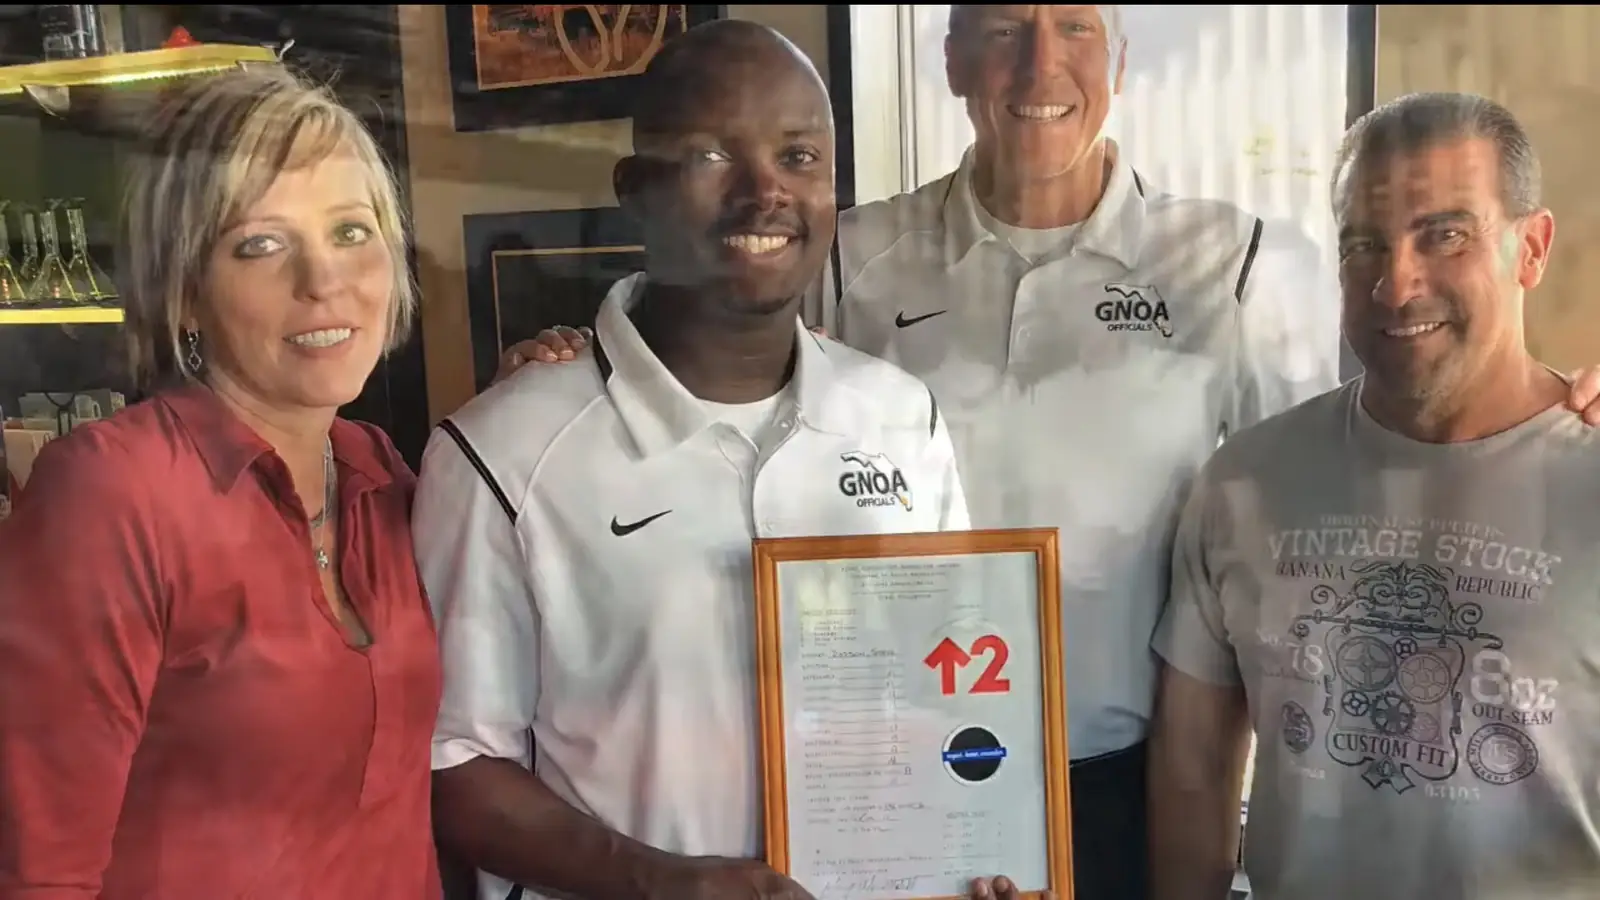
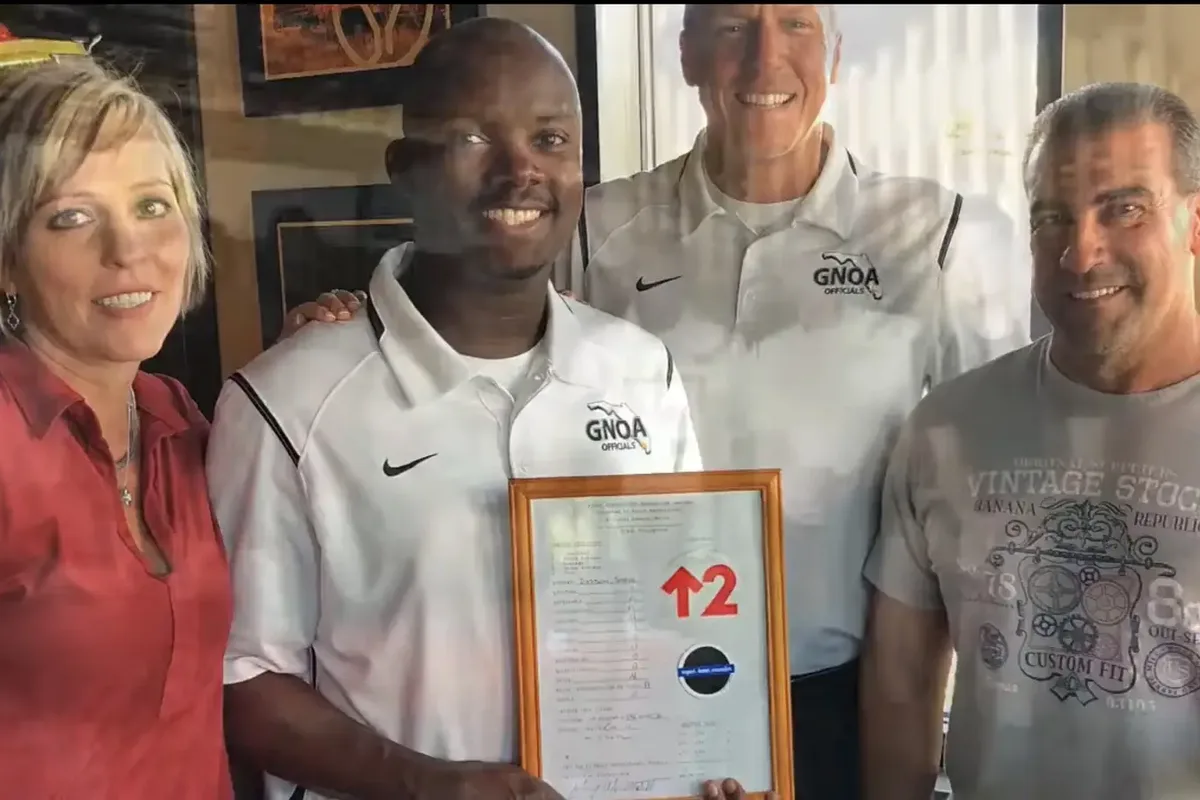
Recut baseball path photos to uniform 3:2 with face-safe focus
Claude-Session: https://claude.ai/code/session_013oN5QR7WMKUbHtxx7kQhA4

diff --git a/design-kit/DESIGN.md b/design-kit/DESIGN.md
@@ -1,4 +1,4 @@
-# GNOA Design Kit v1.5
+# GNOA Design Kit v1.6
 
 Source: GNOA homepage mockup v1.0 (Greater Naples Officials Association), plus the Football, Baseball, About, Wrestling, Soccer, Softball and Volleyball page handoff packs (v1.2 to v1.5 sections).
 Purpose: the Builder agent reads this file plus kit.css and assembles pages ONLY from the sections below. It does not invent new layouts, colors or fonts. Copy markup from preview.html.
@@ -54,7 +54,7 @@ Fields marked * are required.
 | steps | Icon-led process on a connector line (no number badges) | heading*, tagline (v1.5), 3 to 6 steps (icon*, title*, text*), button (centered below) | Only for a real sequence. Text max 15 words |
 | learn-cards | Photo cards with title and text under the photo (v1.2) | heading*, tagline, 3 to 6 cards (image*, title*, text* max 35 words) | One row on desktop (columns follow the card count), 3 across on tablet |
 | band | Navy panel, photo right | heading* and paragraph (max 45 words), or heading* and lines (3 to 8 short lines), or blocks (2 topics, each heading + paragraph max 60 words, split by a thin rule); button, image* | Never directly after another dark section |
-| path | Photo cards joined by arrows | heading*, tagline, intro (one line) or headAlign "left" with 1 to 4 paragraphs, 3 to 5 cards (label*, image*, text = caption under the photo), button (centered below) | Only for a progression. Labels max 4 words, captions max 14 words |
+| path | Photo cards joined by arrows | heading*, tagline, intro (one line) or headAlign "left" with 1 to 4 paragraphs, 3 to 5 cards (label*, image*, image.position = optional CSS object-position focus such as "center top", text = caption under the photo), button (centered below) | Only for a progression. Labels max 4 words, captions max 14 words |
 | testimonials | Quote cards with headshot | heading*, 1 to 3 quotes (photo*, quote*, name*, role*) | Real, approved quotes only. SAMPLE tag until GNOA approves |
 | faq | Two-column accordion | heading*, 3 to 10 questions with answers* | Answers from GNOA only, never invented |
 | info-faq | Info panel (photo, text, callout) beside a one-column FAQ (v1.2) | info: heading*, image*, 1 to 3 paragraphs*, list (3 to 8 short checklist items, v1.4), after (1 to 2 paragraphs after the list, v1.4), callout (max 12 words); faq: heading*, 3 to 8 questions with answers* | One FAQ per page. Answers from GNOA only |
@@ -120,6 +120,8 @@ When GNOA sends real files, they use the same file names (see IMAGE-CHECKLIST.md
 | og-share.jpg (optional) | social share image, 1200 x 630 |
 | favicon.png (optional) | browser tab icon, 512 x 512 |
 | post-SLUG.jpg | each blog post (post-cards and post page-hero) |
+
+Path photos: cut every card photo in one row to the same 3:2 (1200 x 800) or 4:3 shape with faces in the upper middle. Cards show a 3:2 crop on desktop and a wide 2.75:1 strip on phones, so set image.position (for example "center top") when heads sit near the top of the frame. (v1.6)
 
 ## 5. What the Builder may and may not decide
 

diff --git a/docs/build-log.md b/docs/build-log.md
@@ -26,3 +26,10 @@ What Will I Need, FAQs, closing banner text). The pack referred to copy it did n
 A few SAMPLE items also remain on Home and About (stats, testimonials, contact details) and photos on
 Wrestling (6), Soccer (5) and Volleyball (5).
 `npm run check:live` lists every one.
+
+## 2026-10-29 Baseball path photos recut
+
+The four "From Your First Game to Your Biggest Assignment" photos on the Baseball page had mixed shapes
+(1.34 to 1.80), so the center crop cut off heads, badly on phones. Recut all four to 1200 x 800 (3:2)
+from the GNOA source photos and added an optional `image.position` focus to the path section
+(Design Kit v1.6). Training and Recognition anchor to the top, the others sit slightly above center.
